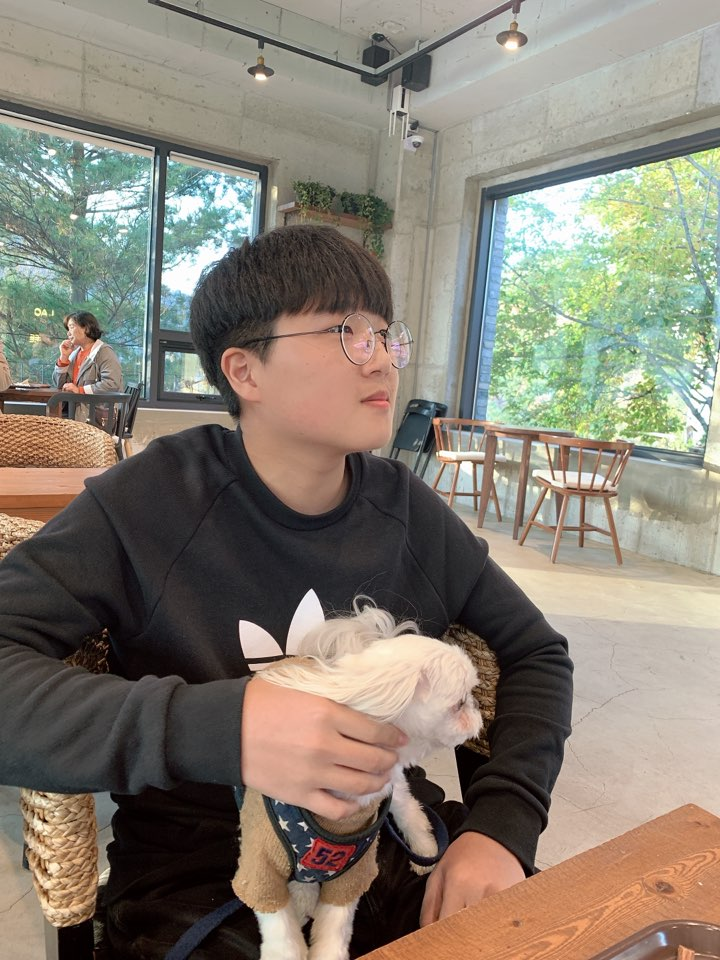
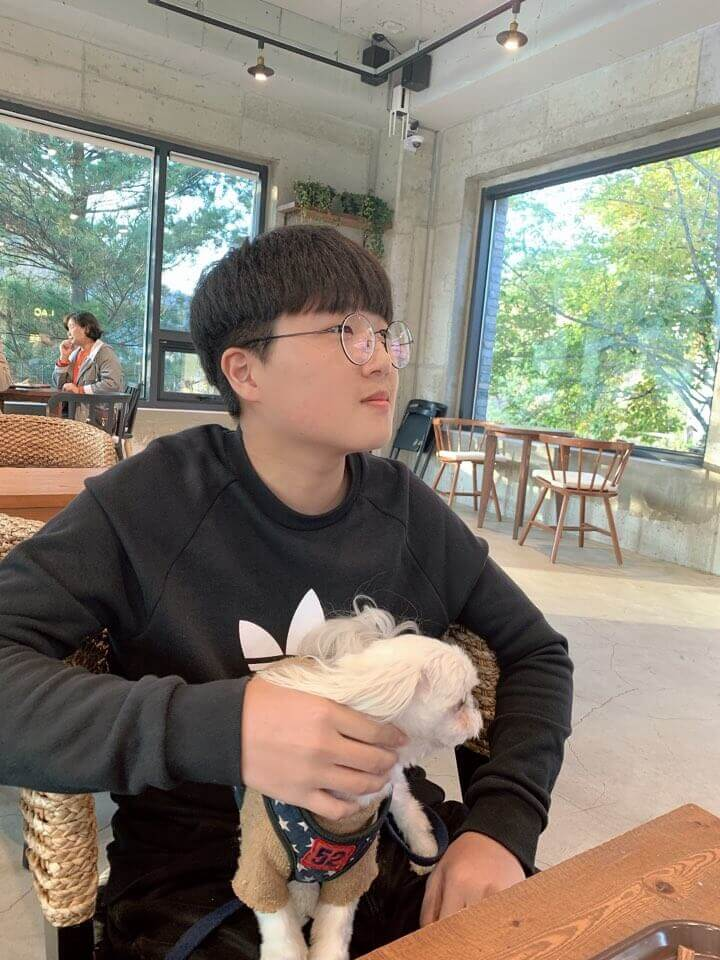
chore: optimize images

diff --git a/src/components/templates/MemberList.jsx b/src/components/templates/MemberList.jsx
@@ -4,13 +4,12 @@ import styled from 'styled-components';
 import MemberCard from '../organisms/MemberCard';
 
 import members from '../../data/members.json';
-
-const sortedMembers = members.sort((a, b) => a - b);
+// const sortedMembers = members.sort((a, b) => a - b);
 
 const MemberList = () => (
   <>
     <ListContainer>
-      {sortedMembers.map(({ name, ...props }, idx) => (
+      {members.map(({ name, ...props }, idx) => (
         <MemberCard
           key={`member-${idx}`}
           image={require(`../../assets/members/${name}.png`)}
